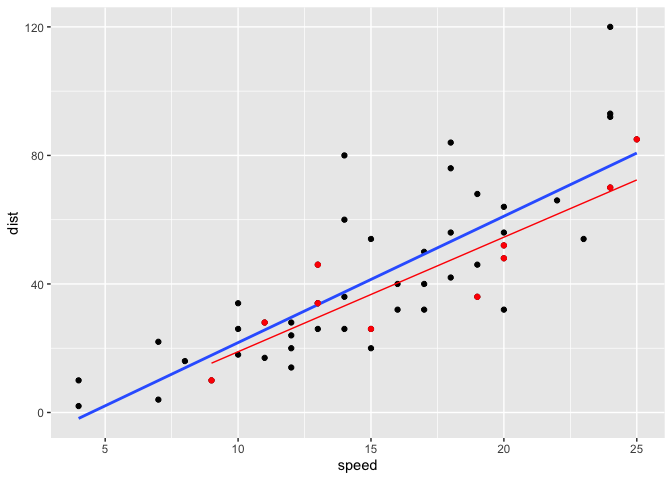
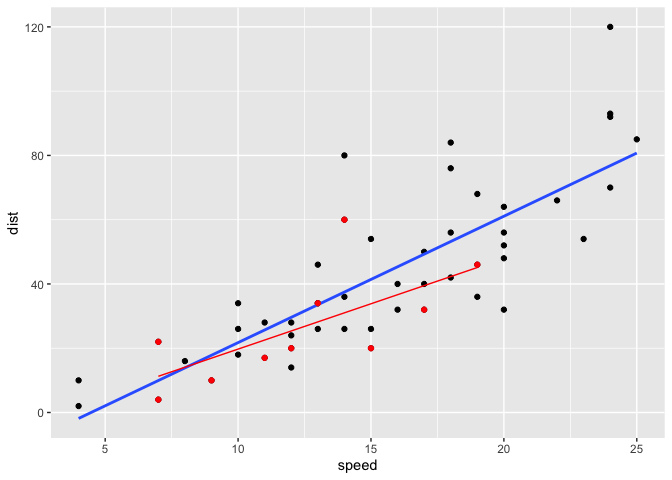
added facet sample, no errors, warnings, note about code length in examples

diff --git a/README.md b/README.md
@@ -1,0 +1,47 @@
+
+<!-- README.md is generated from README.Rmd. Please edit that file -->
+
+# ggsample
+
+<!-- badges: start -->
+<!-- badges: end -->
+
+The goal of ggsample provide easy-to-use functions for sampling. Package
+is educational.
+
+## Installation
+
+<!-- You can install the released version of ggsample from [CRAN](https://CRAN.R-project.org) with: -->
+<!-- ``` r -->
+<!-- install.packages("ggsample") -->
+<!-- ``` -->
+
+And the development version from [GitHub](https://github.com/) with:
+
+``` r
+# install.packages("devtools")
+devtools::install_github("EvaMaeRey/ggsample")
+```
+
+## Example
+
+``` r
+library(ggsample)
+my_seed <- sample(1:100, 1)
+library(ggplot2)
+#> Warning: package 'ggplot2' was built under R version 3.6.2
+ggplot(data = cars) +
+  aes(x = speed, y = dist) +
+  geom_point() +
+  geom_smooth(method = lm,
+             se = FALSE) +
+   geom_point_sample(color = "red",
+                     seed = my_seed) +
+   geom_lm_sample(color = "red",
+                  seed = my_seed)
+#> Default sample_size is 10
+#> sample size is 10 by default
+#> `geom_smooth()` using formula 'y ~ x'
+```
+
+<img src="man/figures/README-example-1.png" width="100%" />
